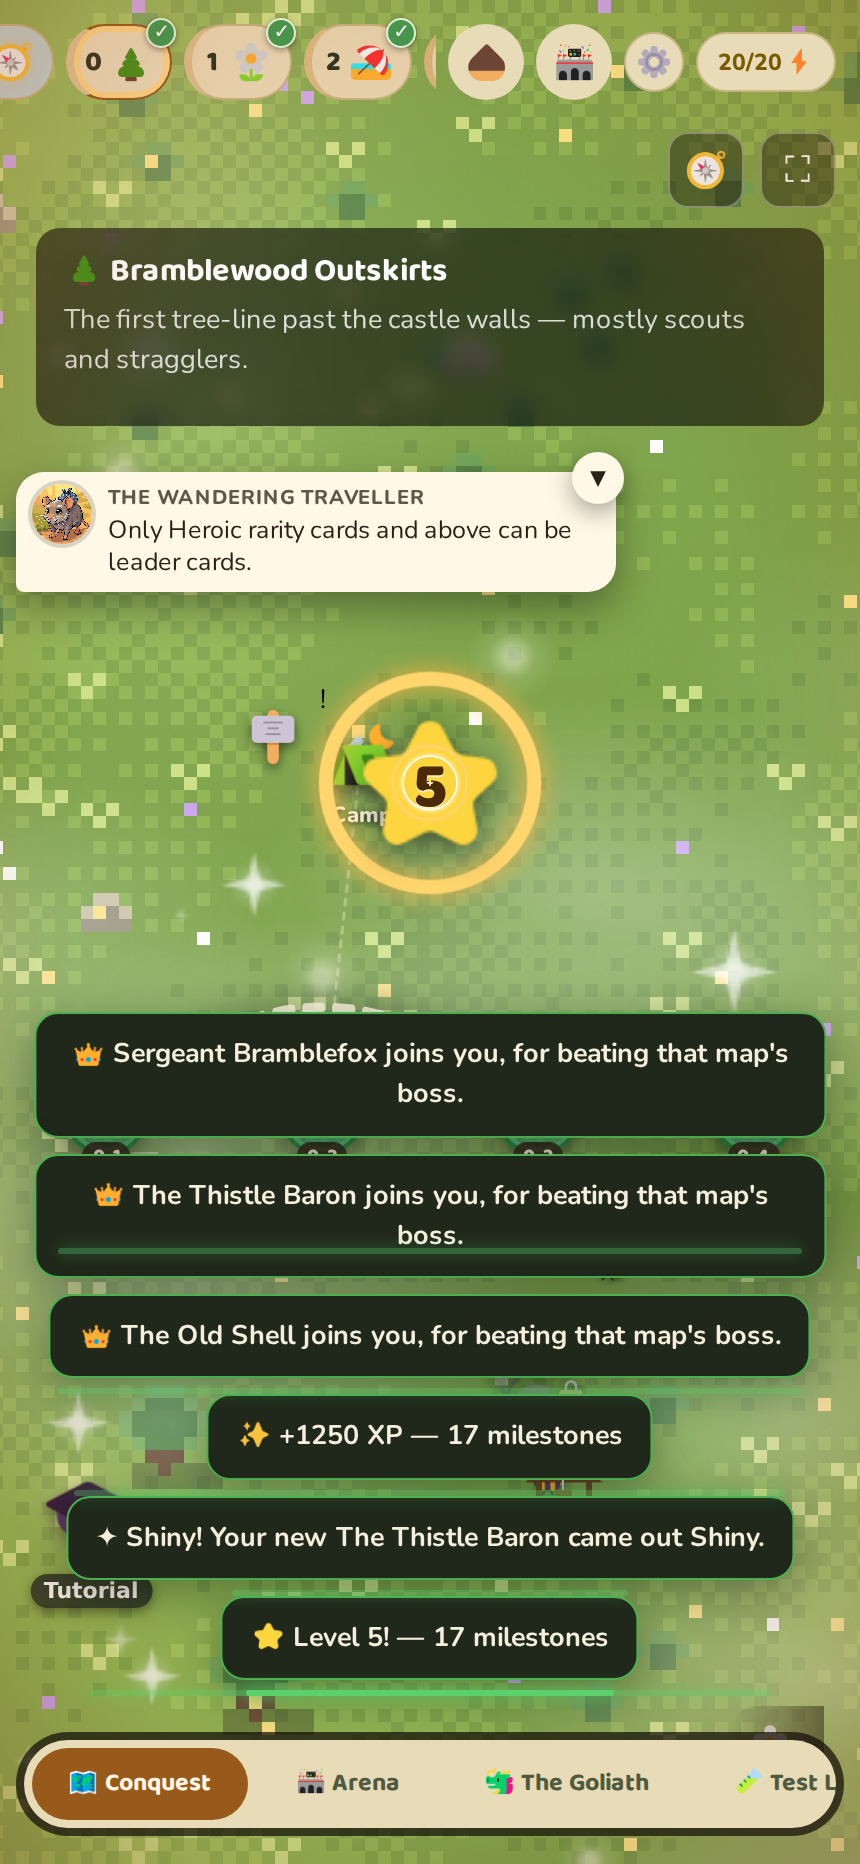
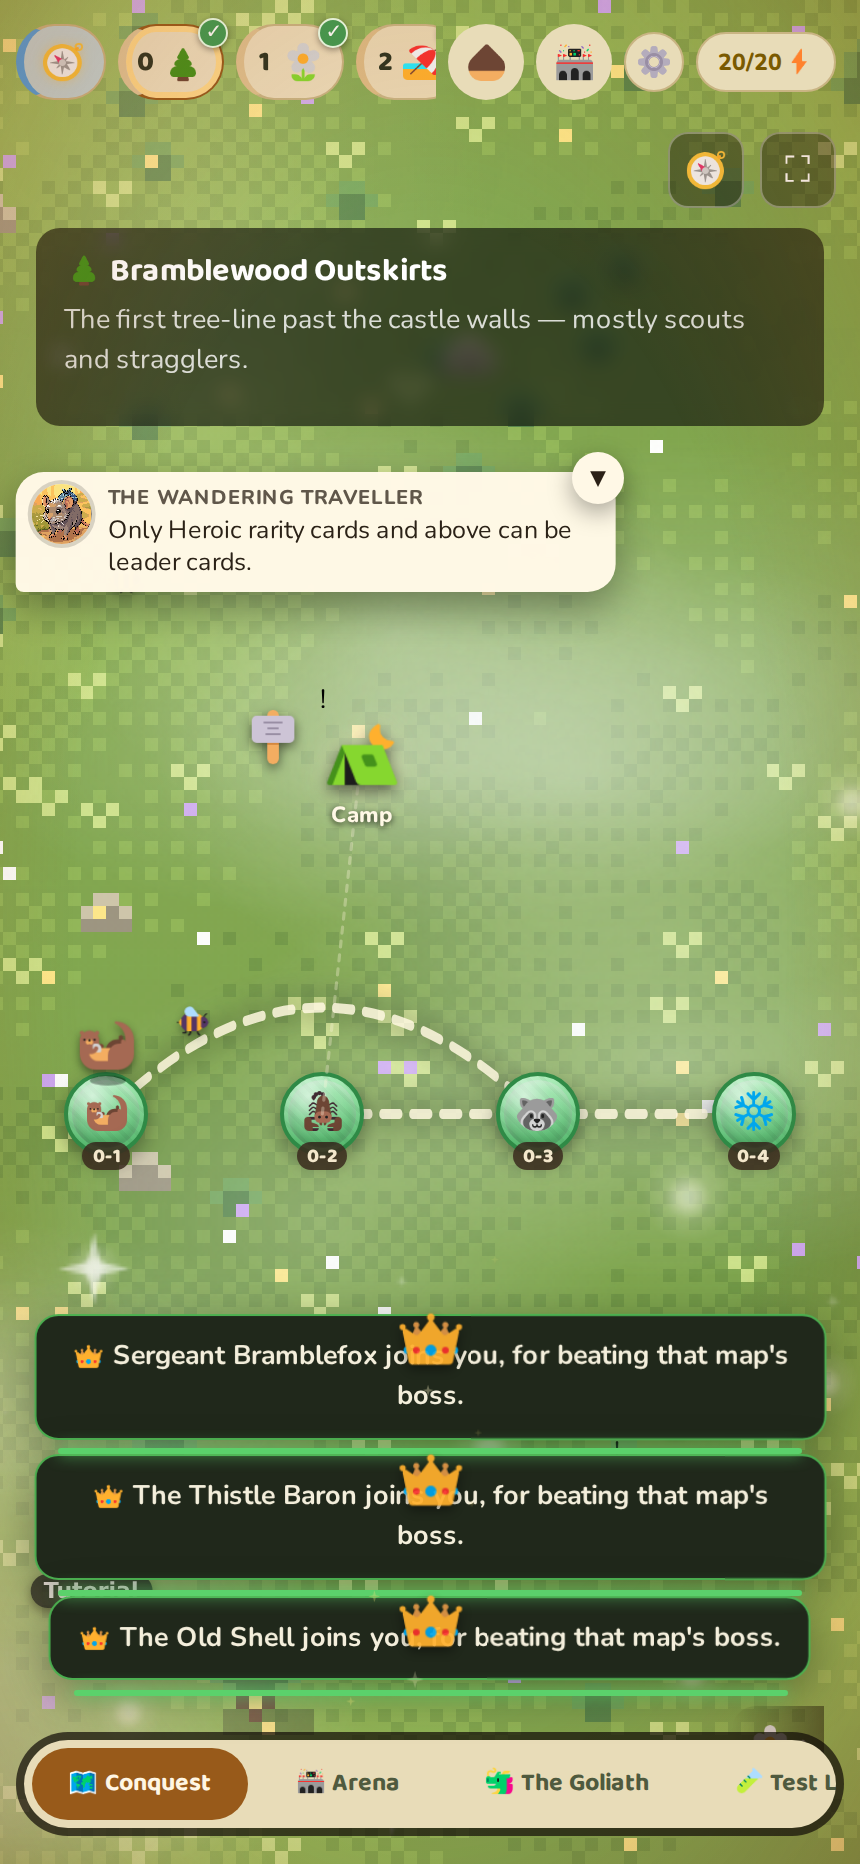
Package U3: the 🌰 Home in the top-right cluster, the phone map strip back (number + emoji chips, no margin above), the raid's bramble Kraken's Reef (its Tentacle Smack, portrait, the tentacle from its tile), raid rows ~3% closer with bigger cards, the turn meter faded out (Turn N, ticks on your turn
Claude-Session: https://claude.ai/code/session_01R6XsJCmXvcJWh931mAnv4Q

diff --git a/docs/balance/U3-checkpoint.md b/docs/balance/U3-checkpoint.md
@@ -1,13 +1,13 @@
 # U3 checkpoint (2026-10-19)
-Owner UI notes 13:41-13:43 + item 6 (13:45). Status:
-1. Home -> top-right cluster (#homeNavBtnPlay, 🌰), tab-bar Home removed. DONE (code, CSS nvStyles/u3Styles).
-2. Phone map strip back, compact chips (cmi-num, cmi-tick), u3FitMapStrip, u3WireChipPeek, toast text. DONE.
-3. Raid bramble: RAID_BRAMBLES / raidBrambleOf ("Kraken's Reef"), art/raids/krakens-reef.svg (tools/make_raid_bramble_art.py),
-   castleHoverHTML, VS card, raid rules, FX.F tentacleSmack origin. DONE. Art brief doc: TODO.
-4. Raid rows CSS (u3Styles 4), bottom-aligned. DONE. Sizes: 390 68x86, 430 77x96, 1366 64x80.
-5. Turn pill faded + u3TurnFlash. DONE.
-6. Castle float at fill end (hqFillEndX, u3ClampOnBar). DONE.
-Tests: tests/e2e/u3_2026_10_19.py passes (map, raid, float). TODO: update tests/bu-2026-10-19.js, tests/e2e/battle_ui_2026_10_19.py,
-tests/nv-2026-10-19.js, tests/mobile-nav-2026-10-19.js; new tests/u3-2026-10-19.js static; i18n (tools/i18n_2026_10_19_u3.py);
-keyify/export_texts; CHANGELOG; art brief; merge main; final commit.
-Scratch tooling: CSS source kept at scratchpad u3css.css, inserted by inscss.py (the template is canonical now).
+Owner UI notes 13:41-13:43 + item 6 (13:45). All done and committed ("Package U3: ...").
+1. Home -> the top-right cluster (#homeNavBtnPlay, 🌰); the tab-bar Home is gone; the full-screen map's Home is an acorn too.
+2. The phone map strip is back on the cluster's line (u3FitMapStrip; its own line under the cluster when under 110 px is left),
+   with compact chips (.cmi-num, .cmi-tick), a touch-and-hold peek (u3WireChipPeek) and the toast wording.
+3. The raid bramble "Kraken's Reef" (RAID_BRAMBLES / raidBrambleOf), art/raids/krakens-reef.svg (tools/make_raid_bramble_art.py),
+   its info panel, VS card and raid rules, and the tentacle from its tile (FX.F tentacleSmack origin). The brief is
+   docs/art/raid-bramble-art-brief.md.
+4. Raid rows (u3Styles 4), bottom-aligned. Board cards: 390 68x86, 430 77x96, 1366 64x80 (were 67x84, 75x94, 61x77).
+5. The turn pill is faded out and reads "Turn N"; u3TurnFlash plays the tick, plus the last-3-turns line.
+6. Castle numbers at the HP fill's end (hqFillEndX, u3ClampOnBar).
+Tests: tests/u3-2026-10-19.js (in run-all), tests/e2e/u3_2026_10_19.py; nv, mobile-nav, bu and the battle_ui e2e test are updated.
+Screens: docs/screens/u3/.
